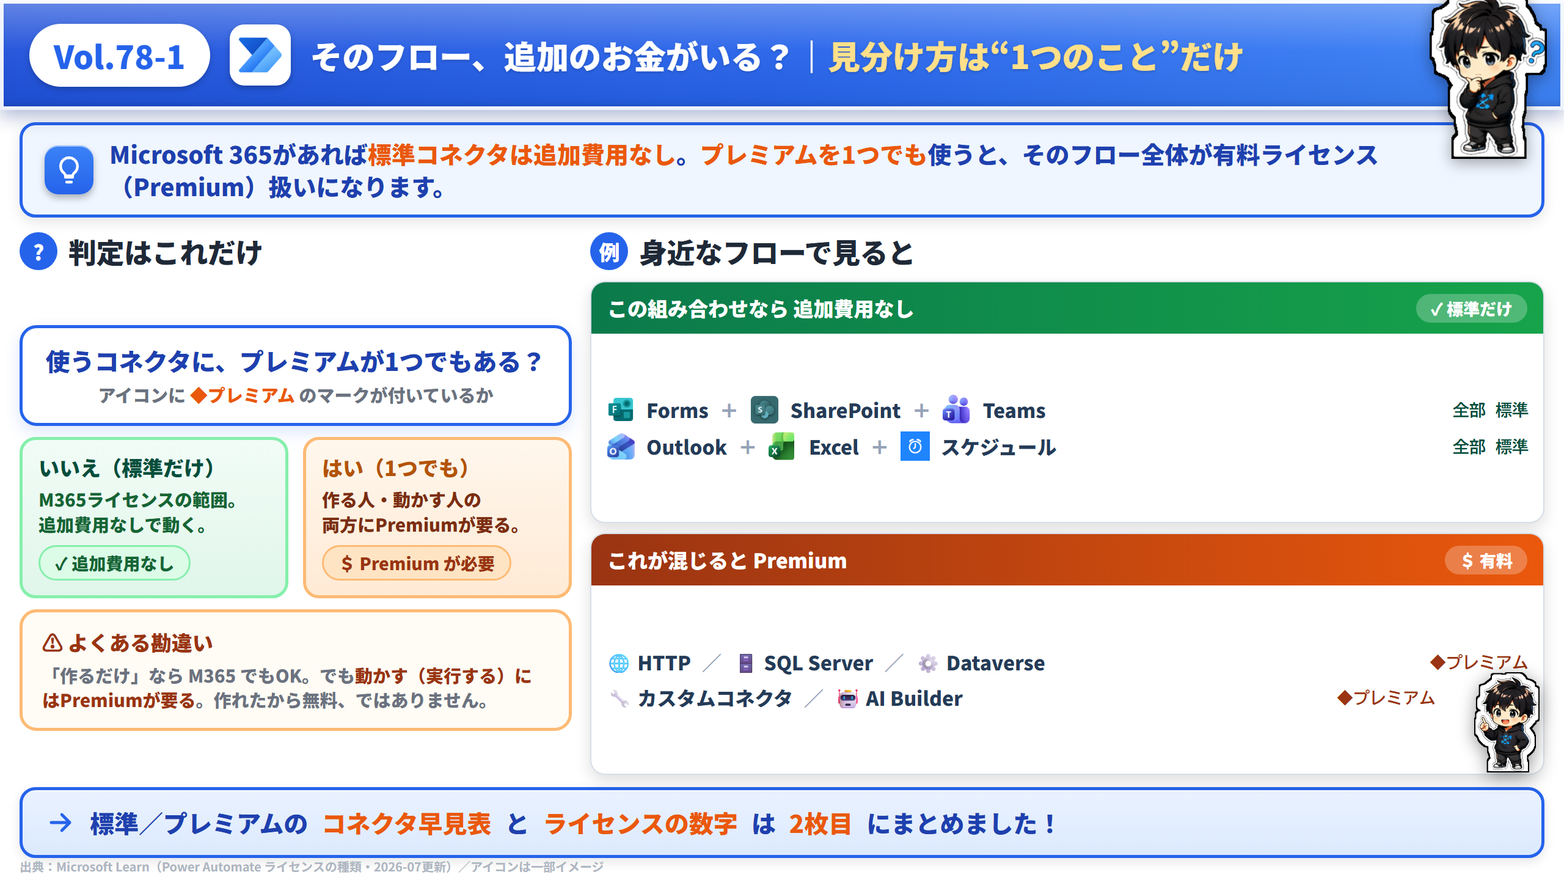
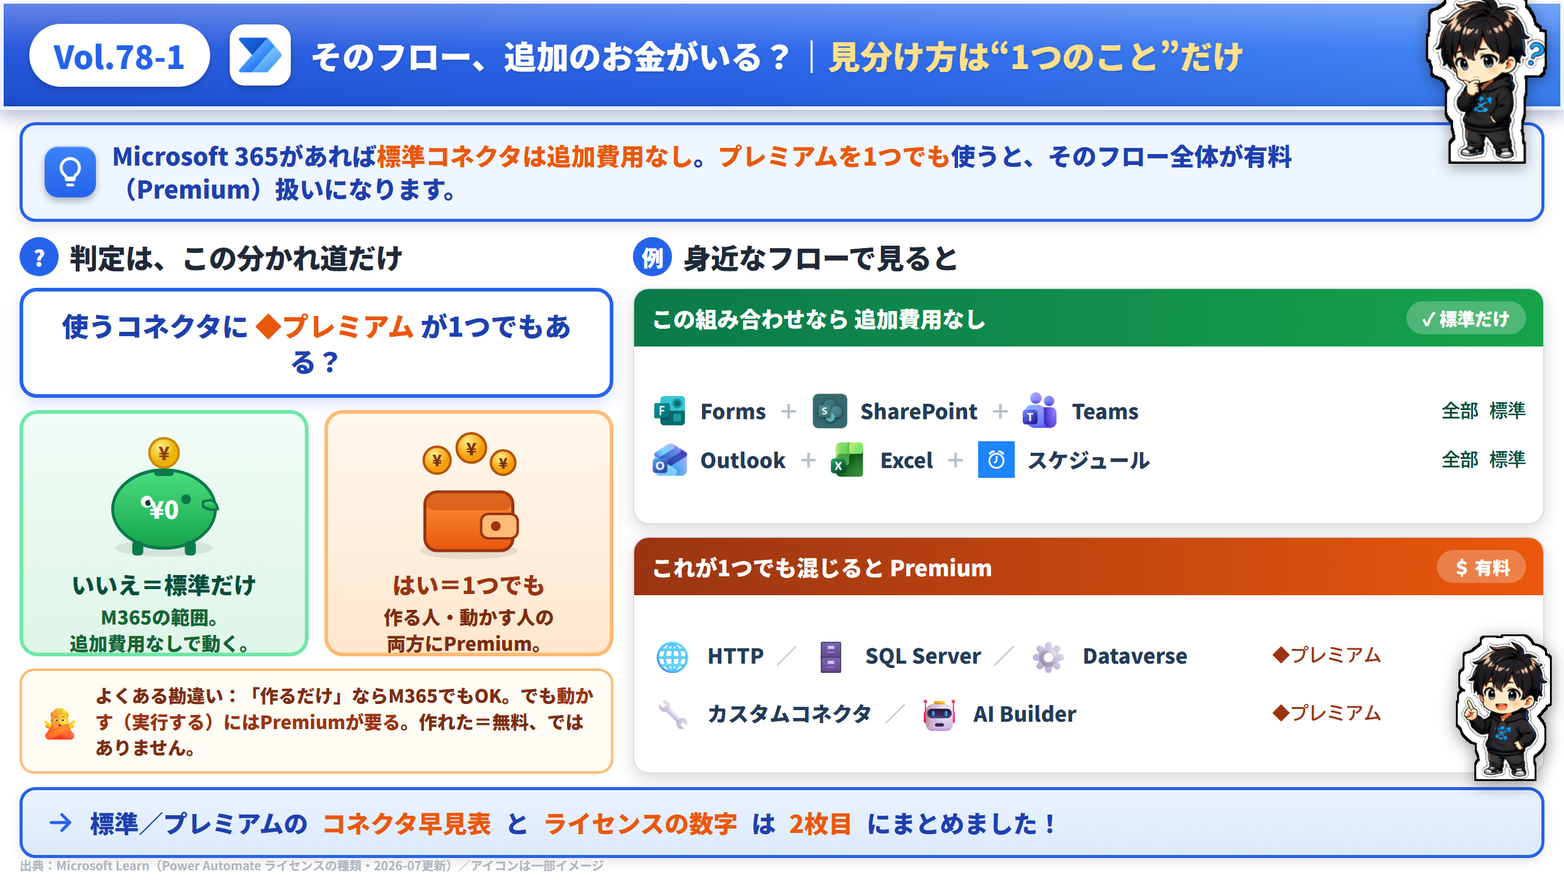
Vol.78 を品質基準まで作り直し（SVG図解・マスコット/アイコン拡大）
はる指摘「クオリティが下がっている・空白多い・アイコン小さい・キャラ小さい」を反映。
- 1枚目＝判定を「貯金箱¥0／財布からコイン」のSVG図解で情景化。左の空白を解消
- コネクタアイコン 23→30px、絵文字も 19→26px に拡大
- 右下マスコット 82→120px（お手本Vol.45の112px基準）、タイトルバー側も146pxへ
- 2枚目も同様にアイコン・マスコット拡大
- 品質基準メモリにサイズ絶対下限を追記（本文マスコット112px以上・モックアイコン24px以上・空白はSVG図解で埋める）

diff --git a/assets/x/html/vol-78/index.html b/assets/x/html/vol-78/index.html
@@ -11,7 +11,7 @@
   :root{
     --blue:#2563EB; --blue-bg:#EFF6FF; --blue-dark:#1E40AF;
     --green:#16A34A; --green-bg:#ECFDF5; --green-dark:#064E3B;
-    --red:#DC2626; --red-dark:#991B1B; --orange:#EA580C; --amber:#B45309;
+    --red:#DC2626; --red-dark:#991B1B; --orange:#EA580C; --amber:#9A3412;
     --ink:#1F2937; --gray:#374151; --weak:#6B7280; --line:#E5E7EB;
   }
   *{margin:0;padding:0;box-sizing:border-box;}
@@ -22,68 +22,114 @@
   .titlebar{height:90px;background:linear-gradient(180deg,rgba(255,255,255,.32),rgba(255,255,255,.05) 46%,rgba(0,0,0,.06) 100%),linear-gradient(135deg,#1D4ED8 0%,#2563EB 52%,#3B82F6 100%);box-shadow:inset 0 0 0 3px rgba(255,255,255,.92),inset 0 2px 1px rgba(255,255,255,.45),inset 0 -4px 6px rgba(0,0,0,.16),0 5px 14px rgba(30,58,138,.36);display:flex;align-items:center;gap:16px;padding:0 24px;position:relative;flex:0 0 auto;z-index:5;}
   .vol-pill{background:#fff;color:var(--blue);font-weight:900;font-size:26px;border-radius:999px;padding:7px 20px;white-space:nowrap;flex:0 0 auto;box-shadow:0 2px 5px rgba(0,0,0,.2);}
   .vol-logo{height:50px;width:50px;object-fit:contain;flex:0 0 auto;background:#fff;border-radius:12px;padding:5px;box-shadow:0 2px 5px rgba(0,0,0,.25),inset 0 1px 0 rgba(255,255,255,.8);}
-  .title-text{color:#fff;font-weight:900;font-size:26.5px;line-height:1.14;text-shadow:0 1px 2px rgba(0,0,0,.18);padding-right:150px;}
+  .title-text{color:#fff;font-weight:900;font-size:26.5px;line-height:1.14;text-shadow:0 1px 2px rgba(0,0,0,.18);padding-right:158px;}
   .title-text .hl{color:#FFE08A;}
-  .title-chara{position:absolute;right:14px;bottom:-40px;height:142px;z-index:50;filter:drop-shadow(0 3px 6px rgba(0,0,0,.35));}
+  .title-chara{position:absolute;right:14px;bottom:-44px;height:146px;z-index:50;filter:drop-shadow(0 3px 6px rgba(0,0,0,.35));}
 
-  .concl{margin:10px 16px 0;background:var(--blue-bg);border:2.5px solid var(--blue);border-radius:13px;display:flex;align-items:center;gap:13px;padding:10px 18px;flex:0 0 auto;box-shadow:0 4px 11px rgba(0,0,0,.10),inset 0 1px 0 rgba(255,255,255,.7);}
-  .concl .chip{flex:0 0 auto;width:40px;height:40px;border-radius:11px;background:linear-gradient(180deg,#3B82F6,#2563EB);color:#fff;display:flex;align-items:center;justify-content:center;padding:8px;box-shadow:0 3px 6px rgba(0,0,0,.28),inset 0 1px 0 rgba(255,255,255,.5);}
-  .concl .txt{font-weight:800;font-size:19.5px;color:var(--blue-dark);line-height:1.36;padding-right:100px;}
+  .concl{margin:10px 16px 0;background:var(--blue-bg);border:2.5px solid var(--blue);border-radius:13px;display:flex;align-items:center;gap:13px;padding:11px 18px;flex:0 0 auto;box-shadow:0 4px 11px rgba(0,0,0,.10),inset 0 1px 0 rgba(255,255,255,.7);}
+  .concl .chip{flex:0 0 auto;width:42px;height:42px;border-radius:11px;background:linear-gradient(180deg,#3B82F6,#2563EB);color:#fff;display:flex;align-items:center;justify-content:center;padding:8px;box-shadow:0 3px 6px rgba(0,0,0,.28),inset 0 1px 0 rgba(255,255,255,.5);}
+  .concl .txt{font-weight:800;font-size:20px;color:var(--blue-dark);line-height:1.36;padding-right:100px;}
   .concl .txt b{color:var(--orange);}
 
-  .stage{flex:1 1 auto;margin:11px 16px 0;display:flex;gap:15px;min-height:0;}
+  .stage{flex:1 1 auto;margin:12px 16px 0;display:flex;gap:16px;min-height:0;}
 
-  /* 左：判定フロー */
-  .flowz{flex:0 0 452px;display:flex;flex-direction:column;min-height:0;}
-  .hd{font-weight:900;font-size:23px;color:var(--ink);margin-bottom:8px;display:flex;align-items:center;gap:9px;letter-spacing:-.01em;}
-  .hd .b{flex:0 0 auto;width:31px;height:31px;border-radius:50%;background:var(--blue);color:#fff;font-weight:900;font-size:17px;display:flex;align-items:center;justify-content:center;}
-  .flow{flex:1;display:flex;flex-direction:column;gap:9px;min-height:0;justify-content:center;}
-  .qbox{background:#fff;border:2.5px solid var(--blue);border-radius:14px;padding:13px 16px;box-shadow:0 5px 13px rgba(37,99,235,.16);text-align:center;}
-  .qbox .qq{font-weight:900;font-size:20px;color:var(--blue-dark);line-height:1.35;}
-  .qbox .qs{font-size:14.5px;font-weight:800;color:var(--weak);margin-top:4px;line-height:1.4;}
-  .branch{display:flex;gap:12px;}
-  .ans{flex:1;border-radius:13px;padding:12px 13px;display:flex;flex-direction:column;gap:5px;position:relative;}
-  .ans.yes{background:linear-gradient(180deg,#F1FCF6,#E1F6EB);border:2.5px solid #86EFAC;}
-  .ans.no{background:linear-gradient(180deg,#FFF7ED,#FFEAD5);border:2.5px solid #FDBA74;}
-  .ans .at{font-weight:900;font-size:17px;line-height:1.25;}
-  .ans.yes .at{color:var(--green-dark);}
-  .ans.no .at{color:var(--amber);}
-  .ans .ad{font-size:14.5px;font-weight:800;line-height:1.4;}
-  .ans.yes .ad{color:#166534;}
-  .ans.no .ad{color:#7C2D12;}
-  .ans .badge{align-self:flex-start;font-weight:900;font-size:14px;border-radius:999px;padding:3px 12px;margin-top:2px;}
-  .ans.yes .badge{background:#DCFCE7;color:#166534;border:1.5px solid #86EFAC;}
-  .ans.no .badge{background:#FFE4C4;color:#9A3412;border:1.5px solid #FDBA74;}
+  /* 左：判定（SVG分岐図解） */
+  .flowz{flex:0 0 486px;display:flex;flex-direction:column;min-height:0;}
+  .hd{font-weight:900;font-size:23px;color:var(--ink);margin-bottom:9px;display:flex;align-items:center;gap:9px;letter-spacing:-.01em;}
+  .hd .b{flex:0 0 auto;width:32px;height:32px;border-radius:50%;background:var(--blue);color:#fff;font-weight:900;font-size:18px;display:flex;align-items:center;justify-content:center;}
+  .flow{flex:1;display:flex;flex-direction:column;gap:10px;min-height:0;}
+  .qbox{background:#fff;border:3px solid var(--blue);border-radius:14px;padding:13px 16px;box-shadow:0 5px 13px rgba(37,99,235,.18);text-align:center;flex:0 0 auto;}
+  .qbox .qq{font-weight:900;font-size:22px;color:var(--blue-dark);line-height:1.32;}
+  .qbox .qq .diamond{color:var(--orange);}
+  .split{flex:1;display:flex;gap:13px;min-height:0;}
+  .road{flex:1;border-radius:15px;padding:12px;display:flex;flex-direction:column;align-items:center;text-align:center;gap:4px;position:relative;overflow:hidden;}
+  .road.free{background:linear-gradient(180deg,#F1FCF6,#DEF5E8);border:3px solid #6EE7A8;}
+  .road.pay{background:linear-gradient(180deg,#FFF7ED,#FFE7CE);border:3px solid #FDBA74;}
+  .road .rimg{width:100%;height:112px;flex:0 0 auto;}
+  .road .rans{font-weight:900;font-size:19px;line-height:1.2;}
+  .road.free .rans{color:var(--green-dark);}
+  .road.pay .rans{color:var(--amber);}
+  .road .rdesc{font-size:15.5px;font-weight:800;line-height:1.4;}
+  .road.free .rdesc{color:#166534;}
+  .road.pay .rdesc{color:#7C2D12;}
+  .road .rbadge{margin-top:auto;font-weight:900;font-size:16px;border-radius:999px;padding:5px 15px;}
+  .road.free .rbadge{background:#16A34A;color:#fff;}
+  .road.pay .rbadge{background:#EA580C;color:#fff;}
 
-  /* 右：例 */
-  .exz{flex:1;display:flex;flex-direction:column;min-height:0;}
-  .ex{flex:1;display:flex;flex-direction:column;gap:8px;min-height:0;}
-  .card{flex:1;background:#fff;border:1px solid #D7DEE8;border-radius:12px;box-shadow:0 5px 13px rgba(0,0,0,.13);overflow:hidden;display:flex;flex-direction:column;min-height:0;}
-  .card-h{flex:0 0 auto;display:flex;align-items:center;gap:9px;padding:9px 13px;font-weight:900;font-size:16.5px;color:#fff;}
+  .miss{flex:0 0 auto;background:#FFFBF5;border:2px solid #FDBA74;border-radius:12px;padding:9px 13px;display:flex;align-items:center;gap:11px;}
+  .miss .mi{flex:0 0 auto;font-size:26px;}
+  .miss .mtx{font-size:15px;font-weight:800;color:#7C2D12;line-height:1.42;}
+  .miss .mtx b{color:#9A3412;}
+
+  /* 右：実例カード */
+  .exz{flex:1;display:flex;flex-direction:column;min-height:0;position:relative;}
+  .ex{flex:1;display:flex;flex-direction:column;gap:10px;min-height:0;}
+  .card{flex:1;background:#fff;border:1px solid #D7DEE8;border-radius:13px;box-shadow:0 5px 14px rgba(0,0,0,.14);overflow:hidden;display:flex;flex-direction:column;min-height:0;}
+  .card-h{flex:0 0 auto;display:flex;align-items:center;gap:9px;padding:10px 14px;font-weight:900;font-size:18px;color:#fff;}
   .card.free .card-h{background:linear-gradient(90deg,#0B7A4B,#16A34A);}
   .card.prem .card-h{background:linear-gradient(90deg,#9A3412,#EA580C);}
-  .card-h .tag{margin-left:auto;font-size:13.5px;font-weight:900;background:rgba(255,255,255,.25);border-radius:999px;padding:2px 12px;}
-  .cbody{flex:1;padding:9px 12px;display:flex;flex-direction:column;gap:6px;justify-content:center;min-height:0;}
-  .cn{display:flex;align-items:center;gap:9px;font-size:16px;font-weight:800;color:#243B58;}
-  .cn img{width:24px;height:24px;object-fit:contain;flex:0 0 auto;}
-  .cn .plus{margin-left:auto;font-family:'Roboto Mono',monospace;font-size:13.5px;font-weight:700;}
+  .card-h .tag{margin-left:auto;font-size:14.5px;font-weight:900;background:rgba(255,255,255,.25);border-radius:999px;padding:3px 13px;}
+  .cbody{flex:1;padding:11px 14px;display:flex;flex-direction:column;gap:10px;justify-content:center;min-height:0;}
+  .cn{display:flex;align-items:center;gap:10px;font-size:17px;font-weight:800;color:#243B58;flex-wrap:wrap;}
+  .cn img{width:30px;height:30px;object-fit:contain;flex:0 0 auto;}
+  .cn .em{font-size:26px;flex:0 0 auto;}
+  .cn .op{color:#B6C0CC;font-weight:900;}
+  .cn .plus{margin-left:auto;font-family:'Roboto Mono',monospace;font-size:15px;font-weight:700;white-space:nowrap;}
   .card.free .cn .plus{color:var(--green-dark);}
   .card.prem .cn .plus{color:#9A3412;}
-  .exmascot{position:absolute;right:4px;bottom:2px;height:82px;z-index:30;filter:drop-shadow(0 3px 7px rgba(0,0,0,.4));}
-  .exz{position:relative;}
+  .exmascot{position:absolute;right:-6px;bottom:-6px;height:120px;z-index:30;filter:drop-shadow(0 3px 7px rgba(0,0,0,.4));}
 
-  .next{flex:0 0 auto;margin:10px 16px 18px;background:linear-gradient(180deg,#EAF2FF,#DCEAFE);border:2.5px solid var(--blue);border-radius:13px;padding:12px 18px;display:flex;align-items:center;gap:11px;font-weight:900;font-size:20px;color:var(--blue-dark);box-shadow:0 3px 9px rgba(0,0,0,.10),inset 0 1px 0 rgba(255,255,255,.7);}
+  .next{flex:0 0 auto;margin:11px 16px 18px;background:linear-gradient(180deg,#EAF2FF,#DCEAFE);border:2.5px solid var(--blue);border-radius:13px;padding:12px 18px;display:flex;align-items:center;gap:11px;font-weight:900;font-size:20px;color:var(--blue-dark);box-shadow:0 3px 9px rgba(0,0,0,.10),inset 0 1px 0 rgba(255,255,255,.7);}
   .next .na{flex:0 0 auto;width:26px;height:26px;color:var(--blue);}
   .next b{color:var(--orange);}
-  .src{position:absolute;left:16px;bottom:4px;font-size:10px;color:#AEB6C2;font-weight:700;z-index:3;}
+  .src{position:absolute;left:16px;bottom:5px;font-size:10px;color:#AEB6C2;font-weight:700;z-index:3;}
 </style>
 </head>
 <body>
 <div id="slide"></div>
 <script>
 const A="../../pptx/_assets/";
-const ICON={arrow:'<path d="M5 12h14M13 6l6 6-6 6"/>',bulb:'<path d="M9 18h6"/><path d="M10 22h4"/><path d="M12 2a7 7 0 0 0-4 12.7c.6.5 1 1.3 1 2.1h6c0-.8.4-1.6 1-2.1A7 7 0 0 0 12 2z"/>'};
-const svg=(n)=>`<svg class="ic" viewBox="0 0 24 24" fill="none" stroke="currentColor" stroke-width="2.2" stroke-linecap="round" stroke-linejoin="round">${ICON[n]}</svg>`;
+const svgArrow='<svg class="ic" viewBox="0 0 24 24" fill="none" stroke="currentColor" stroke-width="2.2" stroke-linecap="round" stroke-linejoin="round"><path d="M5 12h14M13 6l6 6-6 6"/></svg>';
+const svgBulb='<svg class="ic" viewBox="0 0 24 24" fill="none" stroke="currentColor" stroke-width="2.2" stroke-linecap="round" stroke-linejoin="round"><path d="M9 18h6"/><path d="M10 22h4"/><path d="M12 2a7 7 0 0 0-4 12.7c.6.5 1 1.3 1 2.1h6c0-.8.4-1.6 1-2.1A7 7 0 0 0 12 2z"/></svg>';
+
+/* 貯金箱＝無料で貯まる */
+const piggy=`<svg class="ic" viewBox="0 0 120 112" xmlns="http://www.w3.org/2000/svg">
+  <defs>
+    <linearGradient id="pig" x1="0" y1="0" x2="0" y2="1"><stop offset="0" stop-color="#4ADE80"/><stop offset="1" stop-color="#16A34A"/></linearGradient>
+    <radialGradient id="coinG" cx="38%" cy="30%"><stop offset="0" stop-color="#FEF08A"/><stop offset="1" stop-color="#EAB308"/></radialGradient>
+  </defs>
+  <ellipse cx="60" cy="98" rx="40" ry="7" fill="#000" opacity=".08"/>
+  <!-- 落ちるコイン -->
+  <circle cx="60" cy="20" r="12" fill="url(#coinG)" stroke="#CA8A04" stroke-width="2"/>
+  <text x="60" y="26" font-size="15" font-weight="900" fill="#92400E" text-anchor="middle">¥</text>
+  <!-- 貯金箱本体 -->
+  <ellipse cx="60" cy="66" rx="42" ry="32" fill="url(#pig)" stroke="#0B7A4B" stroke-width="2.5"/>
+  <rect x="52" y="34" width="16" height="5" rx="2.5" fill="#0B7A4B"/>
+  <circle cx="78" cy="58" r="4" fill="#0B7A4B"/>
+  <path d="M92 60 q10 -4 12 6 q-6 2 -12 -2z" fill="url(#pig)" stroke="#0B7A4B" stroke-width="2"/>
+  <rect x="34" y="92" width="9" height="12" rx="3" fill="#0B7A4B"/>
+  <rect x="77" y="92" width="9" height="12" rx="3" fill="#0B7A4B"/>
+  <circle cx="46" cy="60" r="5" fill="#fff"/><circle cx="47" cy="61" r="2.4" fill="#0B3A26"/>
+  <text x="60" y="74" font-size="20" font-weight="900" fill="#fff" text-anchor="middle">¥0</text>
+</svg>`;
+
+/* 財布から飛び出すコイン＝支払い */
+const wallet=`<svg class="ic" viewBox="0 0 120 112" xmlns="http://www.w3.org/2000/svg">
+  <defs>
+    <linearGradient id="wal" x1="0" y1="0" x2="0" y2="1"><stop offset="0" stop-color="#FB923C"/><stop offset="1" stop-color="#EA580C"/></linearGradient>
+    <radialGradient id="coinO" cx="38%" cy="30%"><stop offset="0" stop-color="#FEF08A"/><stop offset="1" stop-color="#F59E0B"/></radialGradient>
+  </defs>
+  <ellipse cx="60" cy="100" rx="40" ry="7" fill="#000" opacity=".08"/>
+  <!-- 飛び出すコイン3枚 -->
+  <circle cx="34" cy="26" r="11" fill="url(#coinO)" stroke="#B45309" stroke-width="2"/><text x="34" y="31" font-size="13" font-weight="900" fill="#7C2D12" text-anchor="middle">¥</text>
+  <circle cx="62" cy="16" r="12" fill="url(#coinO)" stroke="#B45309" stroke-width="2"/><text x="62" y="22" font-size="14" font-weight="900" fill="#7C2D12" text-anchor="middle">¥</text>
+  <circle cx="88" cy="28" r="10" fill="url(#coinO)" stroke="#B45309" stroke-width="2"/><text x="88" y="33" font-size="12" font-weight="900" fill="#7C2D12" text-anchor="middle">¥</text>
+  <!-- 財布 -->
+  <rect x="24" y="52" width="72" height="48" rx="10" fill="url(#wal)" stroke="#9A3412" stroke-width="2.5"/>
+  <rect x="24" y="52" width="72" height="15" rx="8" fill="#C2410C" opacity=".5"/>
+  <rect x="70" y="70" width="30" height="20" rx="6" fill="#FDBA74" stroke="#9A3412" stroke-width="2"/>
+  <circle cx="82" cy="80" r="4" fill="#9A3412"/>
+</svg>`;
 
 document.getElementById('slide').innerHTML=`
   <div class="titlebar">
@@ -94,33 +140,34 @@ document.getElementById('slide').innerHTML=`
   </div>
 
   <div class="concl">
-    <div class="chip">${svg('bulb')}</div>
-    <div class="txt">Microsoft 365があれば<b>標準コネクタは追加費用なし</b>。<b>プレミアムを1つでも</b>使うと、そのフロー全体が有料ライセンス（Premium）扱いになります。</div>
+    <div class="chip">${svgBulb}</div>
+    <div class="txt">Microsoft 365があれば<b>標準コネクタは追加費用なし</b>。<b>プレミアムを1つでも</b>使うと、そのフロー全体が有料（Premium）扱いになります。</div>
   </div>
 
   <div class="stage">
     <div class="flowz">
-      <div class="hd"><span class="b">?</span>判定はこれだけ</div>
+      <div class="hd"><span class="b">?</span>判定は、この分かれ道だけ</div>
       <div class="flow">
         <div class="qbox">
-          <div class="qq">使うコネクタに、プレミアムが1つでもある？</div>
-          <div class="qs">アイコンに <b style="color:#EA580C">◆プレミアム</b> のマークが付いているか</div>
+          <div class="qq">使うコネクタに <span class="diamond">◆プレミアム</span> が1つでもある？</div>
         </div>
-        <div class="branch">
-          <div class="ans yes">
-            <div class="at">いいえ（標準だけ）</div>
-            <div class="ad">M365ライセンスの範囲。<br>追加費用なしで動く。</div>
-            <div class="badge">✓ 追加費用なし</div>
+        <div class="split">
+          <div class="road free">
+            <div class="rimg">${piggy}</div>
+            <div class="rans">いいえ＝標準だけ</div>
+            <div class="rdesc">M365の範囲。<br>追加費用なしで動く。</div>
+            <div class="rbadge">✓ 追加費用なし</div>
           </div>
-          <div class="ans no">
-            <div class="at">はい（1つでも）</div>
-            <div class="ad">作る人・動かす人の<br>両方にPremiumが要る。</div>
-            <div class="badge">＄ Premium が必要</div>
+          <div class="road pay">
+            <div class="rimg">${wallet}</div>
+            <div class="rans">はい＝1つでも</div>
+            <div class="rdesc">作る人・動かす人の<br>両方にPremium。</div>
+            <div class="rbadge">＄ Premium が必要</div>
           </div>
         </div>
-        <div class="qbox" style="border-color:#FDBA74;background:#FFFBF5;box-shadow:none;text-align:left;">
-          <div class="qq" style="color:#9A3412;font-size:17px;">⚠ よくある勘違い</div>
-          <div class="qs" style="text-align:left;margin-top:5px;">「作るだけ」なら M365 でもOK。でも<b style="color:#9A3412;">動かす（実行する）にはPremiumが要る</b>。作れたから無料、ではありません。</div>
+        <div class="miss">
+          <span class="mi">🙅</span>
+          <span class="mtx">よくある勘違い：「作るだけ」ならM365でもOK。でも<b>動かす（実行する）にはPremiumが要る</b>。作れた＝無料、ではありません。</span>
         </div>
       </div>
     </div>
@@ -131,15 +178,15 @@ document.getElementById('slide').innerHTML=`
         <div class="card free">
           <div class="card-h">この組み合わせなら 追加費用なし<span class="tag">✓ 標準だけ</span></div>
           <div class="cbody">
-            <div class="cn"><img src="${A}icons/pa_forms.png" alt="">Forms<span style="color:#94A3B8">＋</span><img src="${A}icons/pa_sharepoint.png" alt="">SharePoint<span style="color:#94A3B8">＋</span><img src="${A}icons/pa_teams.png" alt="">Teams<span class="plus">全部 標準</span></div>
-            <div class="cn"><img src="${A}icons/pa_outlook.png" alt="">Outlook<span style="color:#94A3B8">＋</span><img src="${A}icons/pa_excel.png" alt="">Excel<span style="color:#94A3B8">＋</span><img src="${A}icons/pa_schedule.png" alt="">スケジュール<span class="plus">全部 標準</span></div>
+            <div class="cn"><img src="${A}icons/pa_forms.png" alt="">Forms<span class="op">＋</span><img src="${A}icons/pa_sharepoint.png" alt="">SharePoint<span class="op">＋</span><img src="${A}icons/pa_teams.png" alt="">Teams<span class="plus">全部 標準</span></div>
+            <div class="cn"><img src="${A}icons/pa_outlook.png" alt="">Outlook<span class="op">＋</span><img src="${A}icons/pa_excel.png" alt="">Excel<span class="op">＋</span><img src="${A}icons/pa_schedule.png" alt="">スケジュール<span class="plus">全部 標準</span></div>
           </div>
         </div>
         <div class="card prem">
-          <div class="card-h">これが混じると Premium<span class="tag">＄ 有料</span></div>
+          <div class="card-h">これが1つでも混じると Premium<span class="tag">＄ 有料</span></div>
           <div class="cbody">
-            <div class="cn">🌐 HTTP<span style="color:#94A3B8">／</span>🗄 SQL Server<span style="color:#94A3B8">／</span>⚙ Dataverse<span class="plus">◆プレミアム</span></div>
-            <div class="cn" style="padding-right:76px">🔧 カスタムコネクタ<span style="color:#94A3B8">／</span>🤖 AI Builder<span class="plus">◆プレミアム</span></div>
+            <div class="cn"><span class="em">🌐</span>HTTP<span class="op">／</span><span class="em">🗄</span>SQL Server<span class="op">／</span><span class="em">⚙</span>Dataverse<span class="plus" style="padding-right:118px">◆プレミアム</span></div>
+            <div class="cn" style="padding-right:118px"><span class="em">🔧</span>カスタムコネクタ<span class="op">／</span><span class="em">🤖</span>AI Builder<span class="plus">◆プレミアム</span></div>
           </div>
         </div>
       </div>
@@ -147,7 +194,7 @@ document.getElementById('slide').innerHTML=`
     </div>
   </div>
 
-  <div class="next"><span class="na">${svg('arrow')}</span>標準／プレミアムの<b>コネクタ早見表</b>と<b>ライセンスの数字</b>は <b>2枚目</b>にまとめました！</div>
+  <div class="next"><span class="na">${svgArrow}</span>標準／プレミアムの<b>コネクタ早見表</b>と<b>ライセンスの数字</b>は <b>2枚目</b>にまとめました！</div>
   <div class="src">出典：Microsoft Learn（Power Automate ライセンスの種類・2026-07更新）／アイコンは一部イメージ</div>
 `;
 </script>

diff --git a/assets/x/html/vol-78b/index.html b/assets/x/html/vol-78b/index.html
@@ -24,7 +24,7 @@
   .vol-logo{height:50px;width:50px;object-fit:contain;flex:0 0 auto;background:#fff;border-radius:12px;padding:5px;box-shadow:0 2px 5px rgba(0,0,0,.25),inset 0 1px 0 rgba(255,255,255,.8);}
   .title-text{color:#fff;font-weight:900;font-size:27px;line-height:1.14;text-shadow:0 1px 2px rgba(0,0,0,.18);padding-right:150px;}
   .title-text .hl{color:#FFE08A;}
-  .title-chara{position:absolute;right:14px;bottom:-40px;height:142px;z-index:50;filter:drop-shadow(0 3px 6px rgba(0,0,0,.35));}
+  .title-chara{position:absolute;right:14px;bottom:-44px;height:146px;z-index:50;filter:drop-shadow(0 3px 6px rgba(0,0,0,.35));}
 
   .concl{margin:10px 16px 0;background:var(--blue-bg);border:2.5px solid var(--blue);border-radius:13px;display:flex;align-items:center;gap:13px;padding:10px 18px;flex:0 0 auto;box-shadow:0 4px 11px rgba(0,0,0,.10),inset 0 1px 0 rgba(255,255,255,.7);}
   .concl .chip{flex:0 0 auto;width:40px;height:40px;border-radius:11px;background:linear-gradient(180deg,#3B82F6,#2563EB);color:#fff;display:flex;align-items:center;justify-content:center;padding:8px;box-shadow:0 3px 6px rgba(0,0,0,.28),inset 0 1px 0 rgba(255,255,255,.5);}
@@ -40,9 +40,9 @@
   .list{flex:1;border:2px solid;border-top:none;border-radius:0 0 11px 11px;padding:9px 11px;display:grid;grid-template-columns:1fr 1fr;grid-auto-rows:1fr;gap:7px 9px;min-height:0;}
   .col.free .list{border-color:#9BE0BE;background:#F5FCF8;}
   .col.prem .list{border-color:#FDBA74;background:#FFFBF5;}
-  .ci{display:flex;align-items:center;gap:9px;background:#fff;border:1px solid var(--line);border-radius:8px;padding:6px 9px;font-size:16px;font-weight:800;color:#243B58;min-height:0;}
-  .ci img{width:23px;height:23px;object-fit:contain;flex:0 0 auto;}
-  .ci .em{font-size:19px;flex:0 0 auto;width:23px;text-align:center;}
+  .ci{display:flex;align-items:center;gap:10px;background:#fff;border:1px solid var(--line);border-radius:8px;padding:7px 10px;font-size:16.5px;font-weight:800;color:#243B58;min-height:0;}
+  .ci img{width:29px;height:29px;object-fit:contain;flex:0 0 auto;}
+  .ci .em{font-size:24px;flex:0 0 auto;width:29px;text-align:center;}
 
   .rz{flex:0 0 316px;display:flex;flex-direction:column;min-height:0;gap:9px;}
   .nums{background:#F8F9FA;border:1px solid var(--line);border-radius:12px;padding:10px 12px;}
@@ -53,9 +53,9 @@
   .nrow .nv{font-family:'Roboto Mono',monospace;font-size:16px;font-weight:700;color:var(--blue-dark);white-space:nowrap;}
   .tip{flex:1;background:linear-gradient(180deg,#EFF6FF,#DCEAFE);border:2px solid #93C5FD;border-radius:12px;padding:11px 13px;display:flex;flex-direction:column;gap:6px;position:relative;min-height:0;justify-content:center;}
   .tip .th{font-weight:900;font-size:17px;color:var(--blue-dark);}
-  .tip .tt{font-size:14.5px;font-weight:800;color:#1E3A8A;line-height:1.5;}
+  .tip .tt{font-size:14.5px;font-weight:800;color:#1E3A8A;line-height:1.5;padding-right:80px;}
   .tip .tt b{color:#9A3412;}
-  .tmascot{position:absolute;right:-8px;bottom:-6px;height:80px;z-index:30;filter:drop-shadow(0 3px 7px rgba(0,0,0,.4));}
+  .tmascot{position:absolute;right:-8px;bottom:-8px;height:112px;z-index:30;filter:drop-shadow(0 3px 7px rgba(0,0,0,.4));}
 
   .warn{flex:0 0 auto;margin:10px 16px 18px;background:#FFF7ED;border:2px solid #FDBA74;border-radius:12px;padding:9px 16px;display:flex;align-items:center;gap:16px;}
   .warn .wt{flex:0 0 auto;font-weight:900;font-size:17px;color:#9A3412;}
